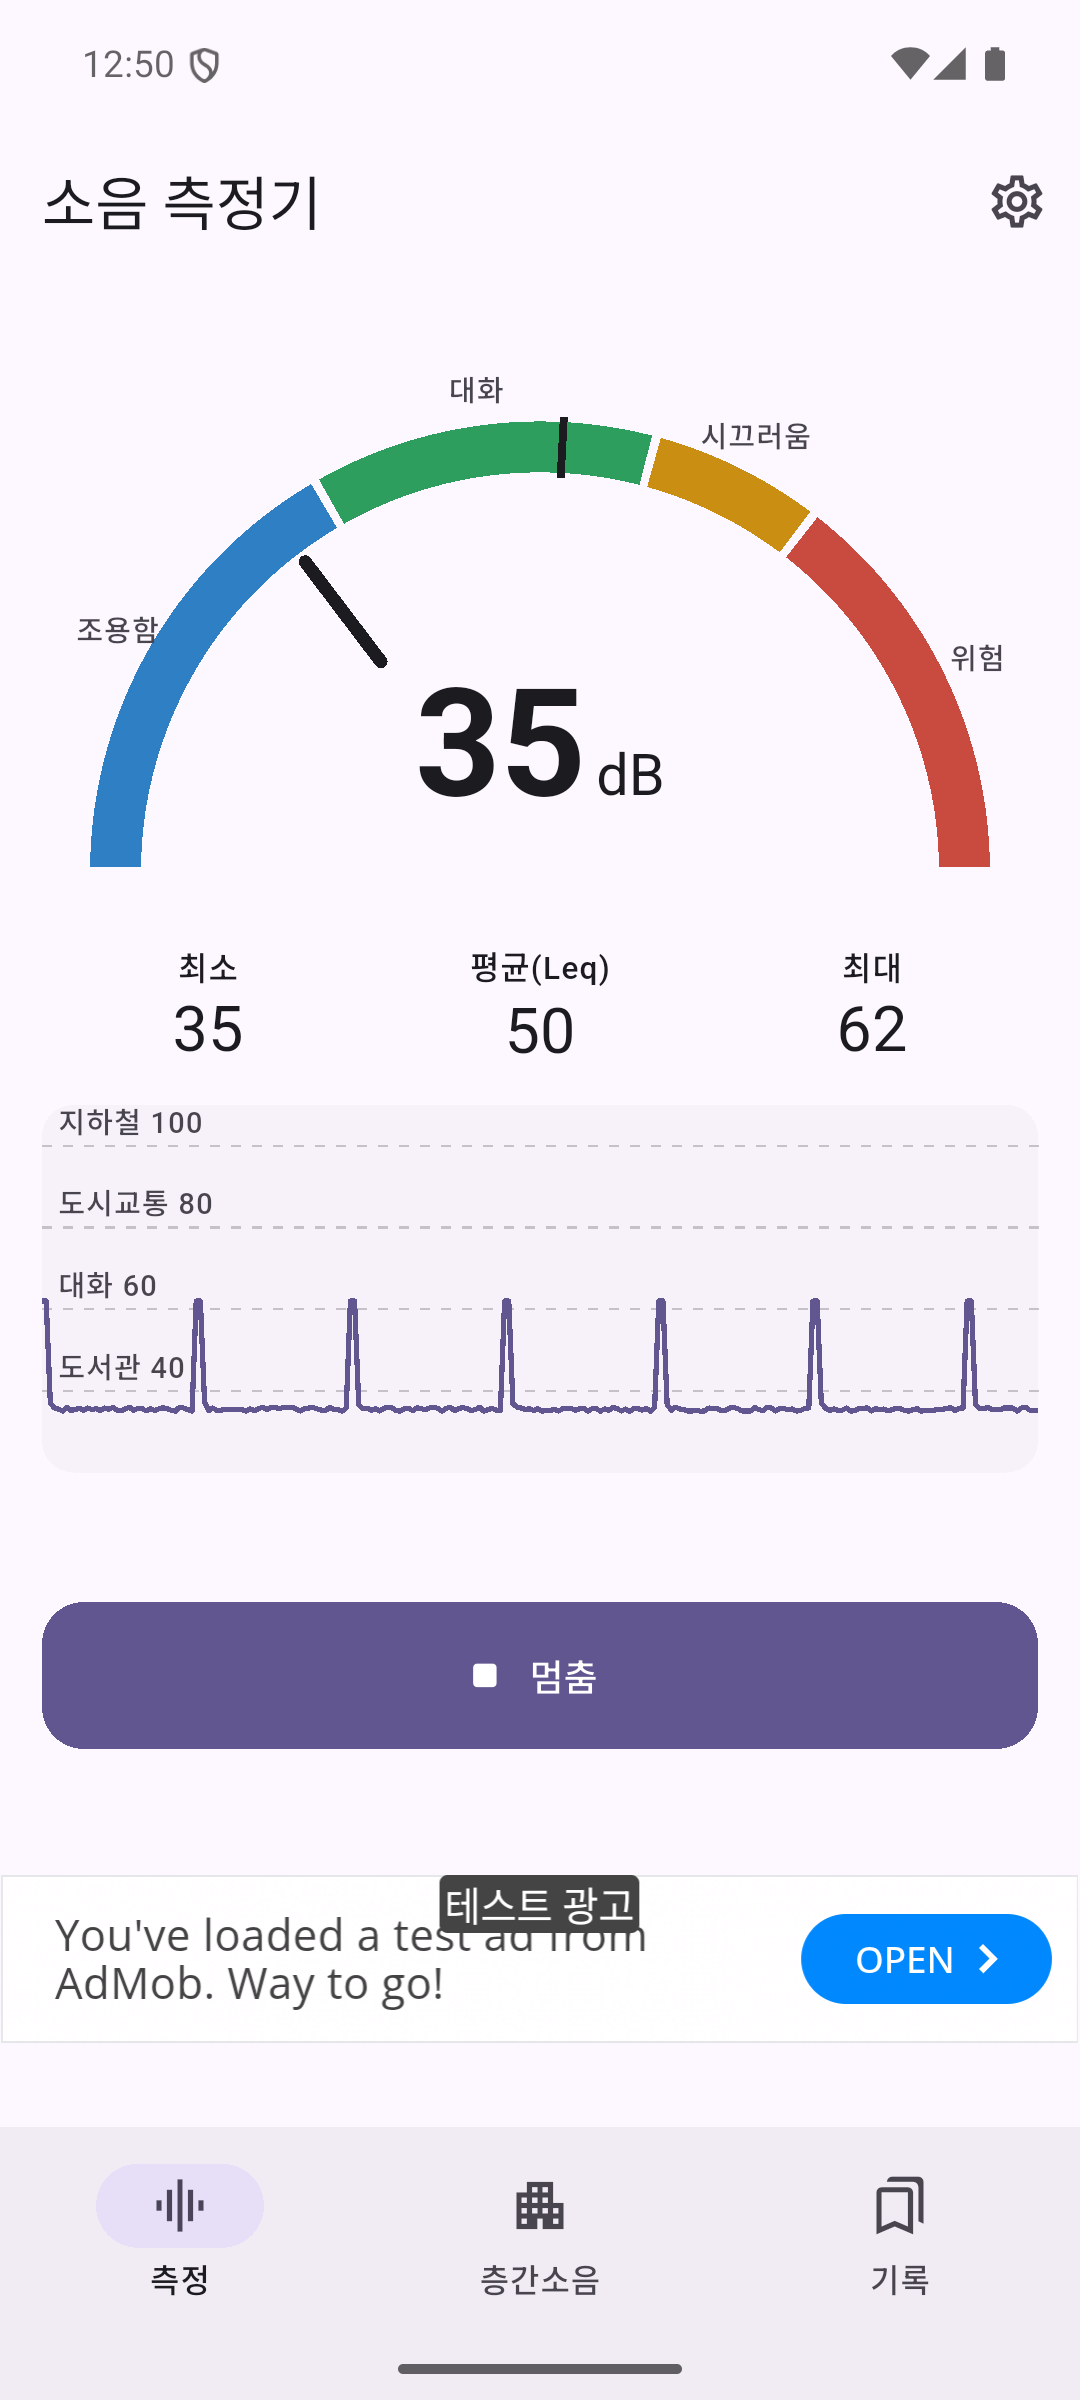
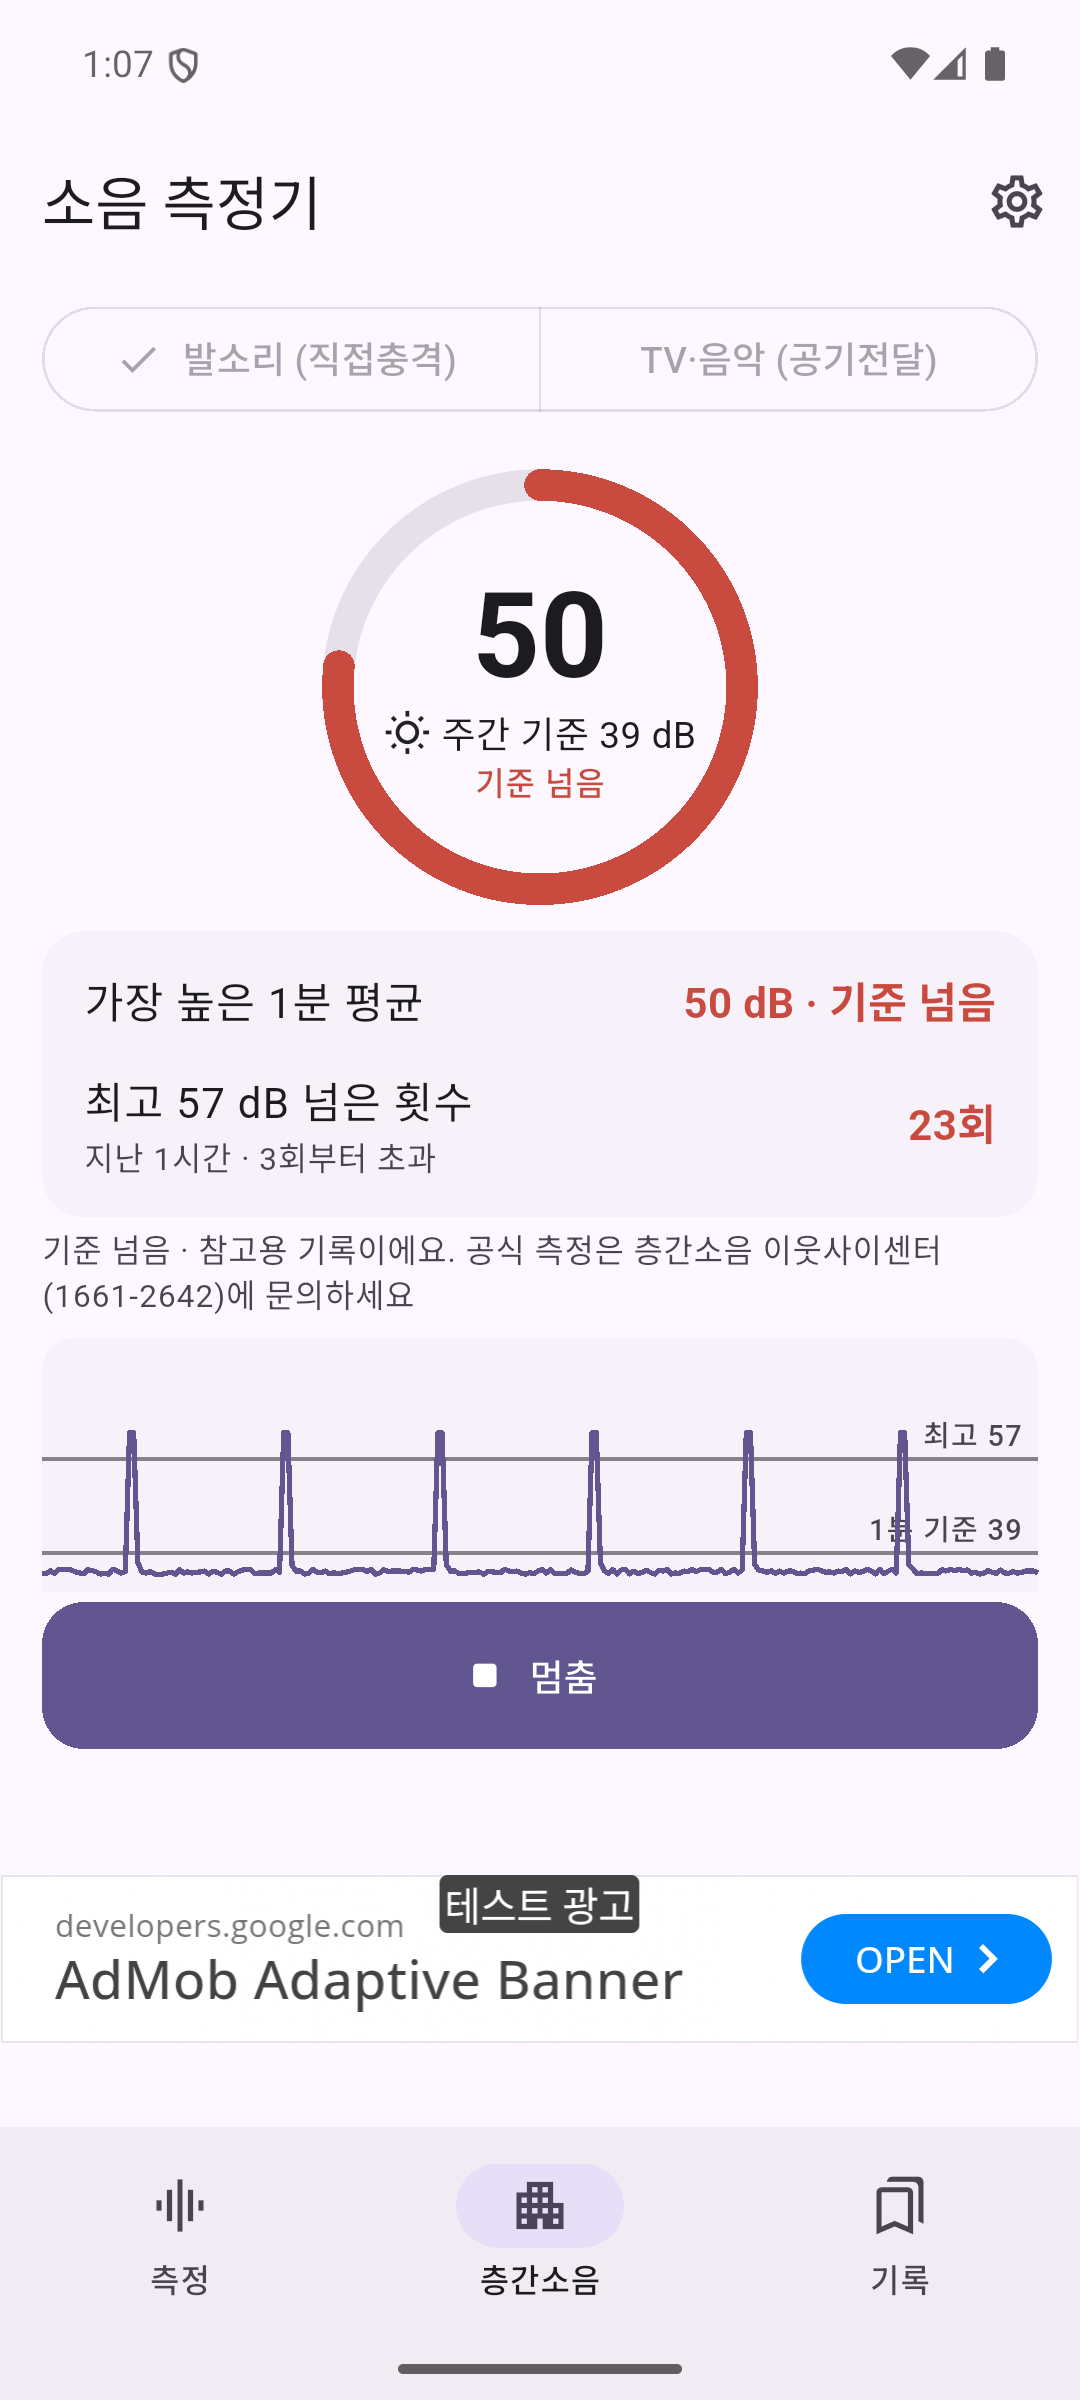
2-5 소음: 구현·검증 기록(IMPLEMENTED), 5단계 검사·스크린숏·메모리

diff --git a/projects/app-factory/02-construction/noise/build-spec-index.md b/projects/app-factory/02-construction/noise/build-spec-index.md
@@ -1,7 +1,7 @@
 ---
 build-spec: noise
 stage: 02-construction/05-noise
-status: READY
+status: IMPLEMENTED
 depth: standard
 updated: 2026-10-15
 ---
@@ -47,7 +47,7 @@ updated: 2026-10-15
 ## §4. 구현 체크리스트
 
 - [x] `factory new noise --category tool --name-ko "소음 측정기" --name-en "Noise Meter: dB Sound Level"` · `factory firebase noise` (커밋 `e0a5731`)
-- [ ] (오너) Firebase `smallmatter-noise` GA 사용 설정 → AdMob 앱·`banner_home`·`app_open` 단위 → AdMob↔Firebase 연결
+- [ ] (오너, 3-1 전) Firebase `smallmatter-noise` GA 사용 설정 → AdMob 앱·`banner_home`·`app_open` 단위 → AdMob↔Firebase 연결
 - [x] `app.yaml`: 시드 #5B45A6, `permissions: [RECORD_AUDIO]`, placements `banner_home`·`app_open`, keyAction `measure_noise`, events(`start_floor`·`save_record`·`export_records`·`calibrate`)
 - [x] domain: dB 엔진 + 골든 테스트(BLM §1.1), 층간소음 판정 테스트 — 23개
 - [x] data: `PcmSource`(record·demo), 기록·CSV + 테스트
@@ -55,15 +55,19 @@ updated: 2026-10-15
 - [x] UI: 측정·층간소음·기록·설정, 권한 흐름, 화면 켜짐
 - [x] 위젯 테스트(데모 소스): 권한 거부·허용, 측정 → 저장 → 기록, 층간소음 판정, 숨은 탭에서 마이크 닫힘, en에서 층간소음 탭 없음, 누수 0 — 앱 테스트 34개
 - [x] store 문구(ko·en)·data-safety·개인정보처리방침 → `tool/sync_site.dart` (https://smallmatter.app/noise/privacy/, 초안)
-- [ ] 릴리스 리허설: 키·AAB·`size`·`validate --release`(DEMO_AUDIO 꺼짐 검사 포함)
+- [x] 릴리스 리허설: 키·AAB·`size`·`validate --release` — 11.23MB, 남은 실패는 `REL_TEST_IDS`(AdMob 단위 대기)뿐. `DEMO_AUDIO`는 릴리스 모드에서 시작 차단. 업로드 키 `~/.smallmatter/keys/noise.*`
 
 ## §5. 검증 계획
-- [ ] 분석·포맷·의존 검사·`validate`
-- [ ] 엔진 골든: A가중 표 ±0.5 dB(8 kHz까지), Leq·청크 독립성·클리핑·무음
-- [ ] 층간소음: 기준표·주야 경계·pre2005·창 최고값·Lmax 3회 규칙
-- [ ] 에뮬레이터(`DEMO_AUDIO`): 전 화면 스크린숏 ko·en, 프롬프트 5단계 검사, 앱 오프닝 광고가 측정을 멈추는지
-- [ ] 실제 마이크: 에뮬레이터 마이크로 동작(권한·스트림·소스 폴백)만 확인. **절대 정확도는 에뮬레이터에서 검증할 수 없다** → 실기기 확인(조용한 방 30~40, 대화 60 근처)은 3-1
-- [ ] 크기 ≤ 15MB, 측정 화면 1분 유지 시 메모리 증가 없음, PSS·콜드 스타트는 G1 측정 절차(기준 앱과 같은 부팅, 3회)
+- [x] 분석·포맷·의존 검사·`validate`
+- [x] 엔진 골든: A가중 표 ±0.2 dB(16 kHz ±0.6), Leq·청크 독립성·클리핑·무음
+- [x] 층간소음: 기준표·주야 경계·pre2005·창 최고값·Lmax 3회 규칙
+- [x] 에뮬레이터(`DEMO_AUDIO`): 전 화면 스크린숏 ko·en, 프롬프트 5단계 검사(FC §9). 앱 오프닝 광고 중 마이크 정지는 3-1 실기기
+- [x] 실제 마이크: 에뮬레이터 마이크로 스트림·dB 계산·무음 전환 확인(24~30 dB 뒤 가상 마이크 0 → 무음 안내). **절대 정확도는 3-1 실기기**
+- [x] 크기 ≤ 15MB ✅ 11.23MB · PSS·콜드 스타트 ⚠ 상대값만 (G1 절차, 2026-10-15)
+  - 에뮬레이터가 14시간째 켜져 부하 2.9~23 — 부하 기준을 3으로 완화해도 측정 중 계속 올랐다. 기준 앱부터 214~228MB·콜드 6.5~8.3초라 절대값은 판정하지 않는다.
+  - PSS(KB, 같은 부팅 3회): 기준 앱 227,508 / 214,156 / 216,956 · 로또 첫 화면 233,396 / 229,295 / 226,416, 탭 뒤 243,562 / 241,278 / 239,817 · 소음 첫 화면 231,273 / 233,397 / 233,588, 탭 뒤 230,933 / 252,320 / 253,797.
+    → 소음은 로또와 같은 수준. 기준 앱 중앙값 대비 첫 화면 +16MB, 탭 뒤 +36MB(코어·UI 40MB 안, 경계).
+  - 측정 화면 유지(실제 마이크): 시작 233,820 → 1분 240,666 → 이후 1분 간격 243,262 / 244,953 / 248,371 / 245,409KB. 첫 1분은 배너 로드 등 초기 증가, 이후 오르내리며 일정 → 누수 아님.
 
 ## §6. NFR
 N/A (standard). 2-1 G1 측정 절차를 따른다.

diff --git a/projects/app-factory/02-construction/noise/frontend-components.md b/projects/app-factory/02-construction/noise/frontend-components.md
@@ -79,6 +79,22 @@ ko: 3탭(측정·층간소음·기록), en: 2탭(Meter·Records) + 측정 화면
 
 조사 §1~§5, Play 사칭 정책 https://support.google.com/googleplay/android-developer/answer/9888374
 
-## 9. 프롬프트 5단계 검사 결과
+## 9. 프롬프트 5단계 검사 결과 (2026-10-15, API 36 에뮬레이터 · 프로파일 빌드, `DEMO_AUDIO` 합성 입력)
 
-구현 후 기록한다.
+스크린숏: [`screens/`](screens/) — 01 측정 · 01b 멈춤(저장·다시 재기) · 02a 층간소음 시작 전 · 02 층간소음 결과(1분 50 dB, 기준 넘음, 최고소음도 23회) · 03 기록 · 03b CSV 공유 시트 · 04 설정 · 05 권한 없음 · 06 영어 · 07 다크 · 08 글자 130% · 09 측정 상한(98 dB) · 10 다른 앱이 마이크 사용 · 11 실제 마이크(에뮬레이터)
+
+| 검사 | 결과 |
+|---|---|
+| 이름을 가려도 무슨 앱인지 아는가 | ✅ 색 띠 아크 계기판 + 큰 dB 숫자 + 사례 눈금(도서관 40 · 대화 60 · 도시교통 80 · 지하철 100) |
+| 설명을 가려도 대표 조작을 찾고 결과를 짐작하는가 | ✅ 열자마자 재고(0번 누름), 엄지 자리 하나뿐인 「멈춤」 → 「다시 재기」·「기록 저장」 |
+| 결과까지 누른 횟수 | ✅ 0번 (첫 실행만 「마이크 허용」 1번), 층간소음 판정 2번 |
+| 다른 앱에 옮겨도 똑같을 요소 | ✅ 없음 (설정 부품 제외). 법정 기준선·1분 링·최고소음도 횟수는 경쟁 앱에 없음 |
+| 움직임이 무엇이 어디로 가는지 보여 주는가, 꺼도 되는가 | ✅ 바늘·그래프·링 진행. 애니메이션 줄이기면 바늘 즉시 |
+| 광고가 주인공·대표 버튼을 가리는가 | ✅ 아니다. 배너는 대표 버튼 아래, 자리를 미리 비워 버튼이 밀리지 않음(2-4 코어 수정 효과 확인) |
+| 사실·문구가 출처와 같고 남의 상표가 없는가 | ✅ 기준 39/34·57/52·45/40(법령 별표), 이웃사이센터 1661-2642, 사례값(한국환경공단·NIOSH·WHO), 기관 로고 없음 |
+| 다크 · 글자 130% · 영어 | ✅ 띠 색이 다크에서 밝게 바뀌어 같은 무게, 잘림 없음. 영어는 층간소음 탭이 없고 85 dBA 선 |
+| 권한·예외 상태가 빈 화면이 아닌가 | ✅ 권한 없음: 계기판이 0에서 쉬고 「마이크 허용」 + 한 줄 약속. 마이크 사용 중: 「–」와 「다시 시도」. 측정 상한: 숫자 옆 빨간 글자 |
+
+**검사 중 고친 것:** ① 바늘이 큰 숫자를 가렸다 → 띠 안쪽 짧은 막대 ② 바늘이 띠 이름 위를 지났다 → 이름을 아크 밖으로 ③ 그래프 기준선 이름 겹침 → 사례 왼쪽·기준 오른쪽 ④ 측정 화면 아래 빈 공간 → 그래프가 남는 높이를 채움 ⑤ 층간소음 그래프가 배너 때문에 납작해짐 → 120dp 고정, 결과 줄 두 줄 ⑥ **다른 앱이 마이크를 쓸 때 「0 dB」·최소 0이 보였다** → 0 블록을 통계에서 뺌(N-DSP-5) ⑦ 「다시 시도」 아이콘이 정지 모양 → 새로고침.
+**확인한 동작:** 측정 → 저장 → 기록 → CSV 공유 시트(`noise-20261015.csv`), 실제 마이크 경로(에뮬레이터 마이크로 24~30 dB 측정 뒤 가상 마이크가 0을 보내자 무음 안내로 전환).
+**에뮬레이터에서 볼 수 없는 것:** 절대 정확도(조용한 방 30~40 dB, 대화 60 dB 근처)와 앱 오프닝 광고 중 마이크 정지 → 3-1 실기기. 합성 입력의 타이머는 에뮬레이터 부하로 실제 시간보다 느렸다(72초에 1분 창 80%) — 실제 마이크는 오디오 속도로 블록이 온다.

diff --git a/projects/app-factory/STATUS.md b/projects/app-factory/STATUS.md
@@ -14,7 +14,7 @@
 > ✅ **2-2 App Generator + Release Pipeline 승인 (2026-10-13).** factory_cli 6개 명령·템플릿·fastlane·release 워크플로.
 > ✅ **2-3 로또 번호 생성기 승인 (2026-10-14).** 출시 전 남은 일(3-1): `app-ads.txt`·방침 게시(smallmatter.app DNS 대기), 문구 검토 (AdMob 단위 완료). 10/18 첫 당첨 자동 등록 확인.
 > ✅ **2-4 연봉 실수령액 계산기 승인 (2026-10-14).** 메모리 예산 초과(219~237MB)는 1.1 메모리 점검에서. 코어 `BannerSlot` 자리 유지, 성능 측정 절차 채택. 출시 전 남은 일(3-1): `app-ads.txt`·방침 게시(smallmatter.app DNS 대기), 문구 검토 (업로드 키 시크릿·AdMob 단위 완료).
-> 📝 **진행: 2-5 소음 측정기** — READY 승인(2026-10-15), 구현 중.
+> 📝 **진행: 2-5 소음 측정기** — 구현·검증 완료(IMPLEMENTED), 오너 승인 대기.
 
 ---
 
